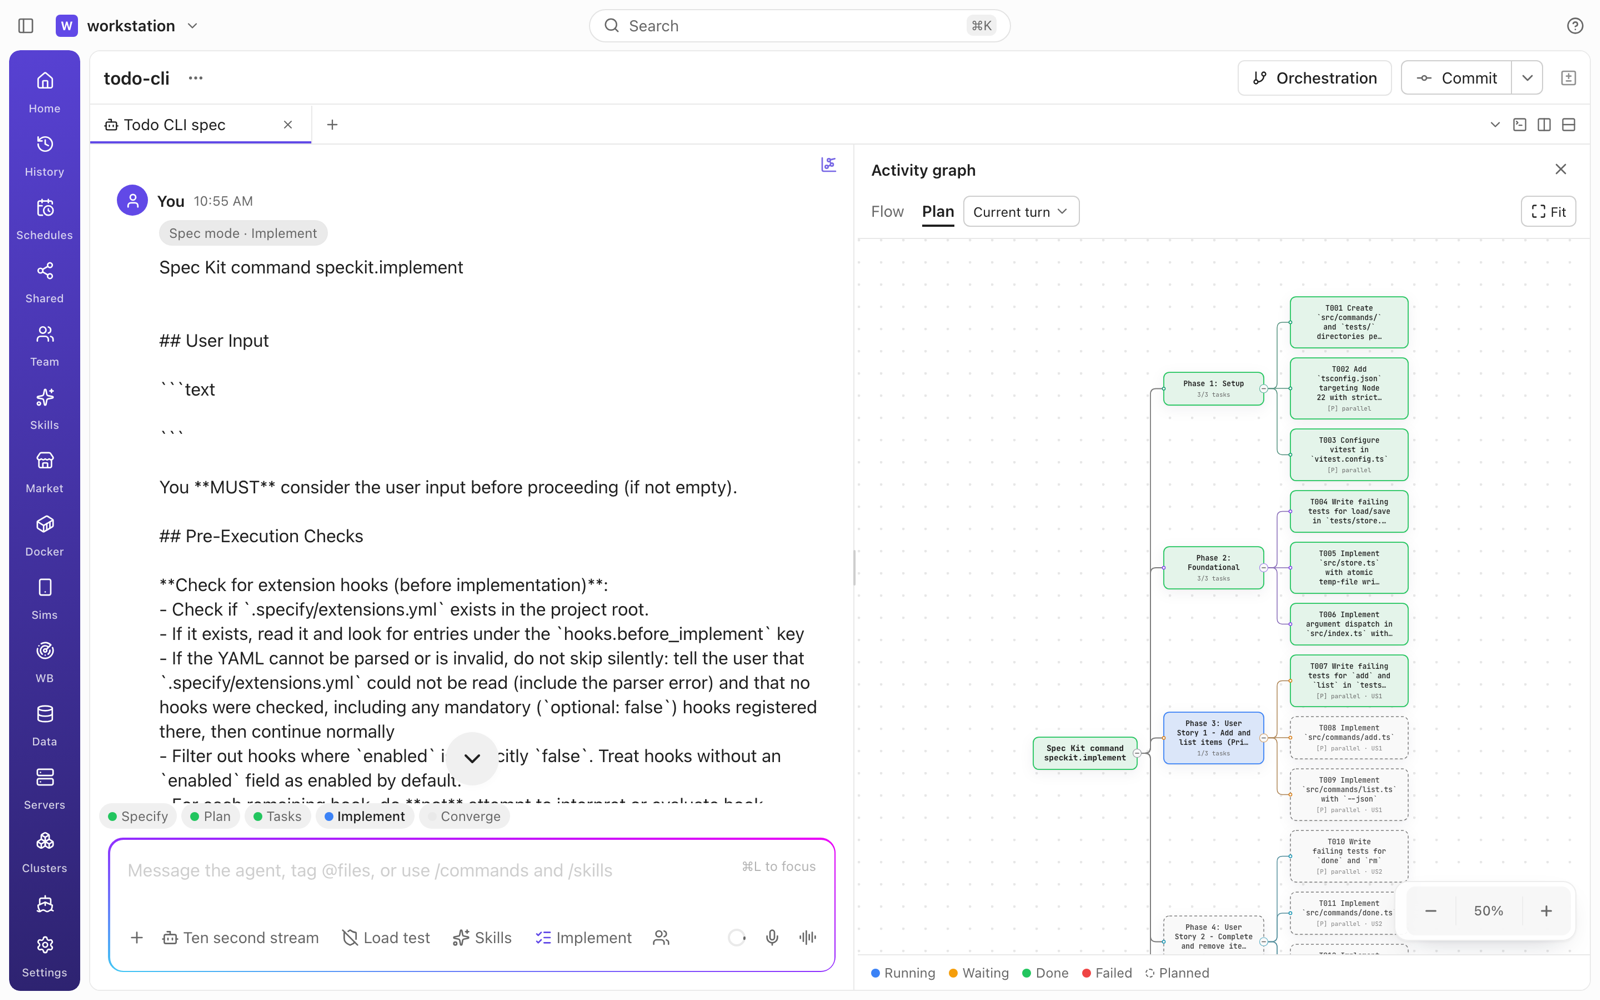
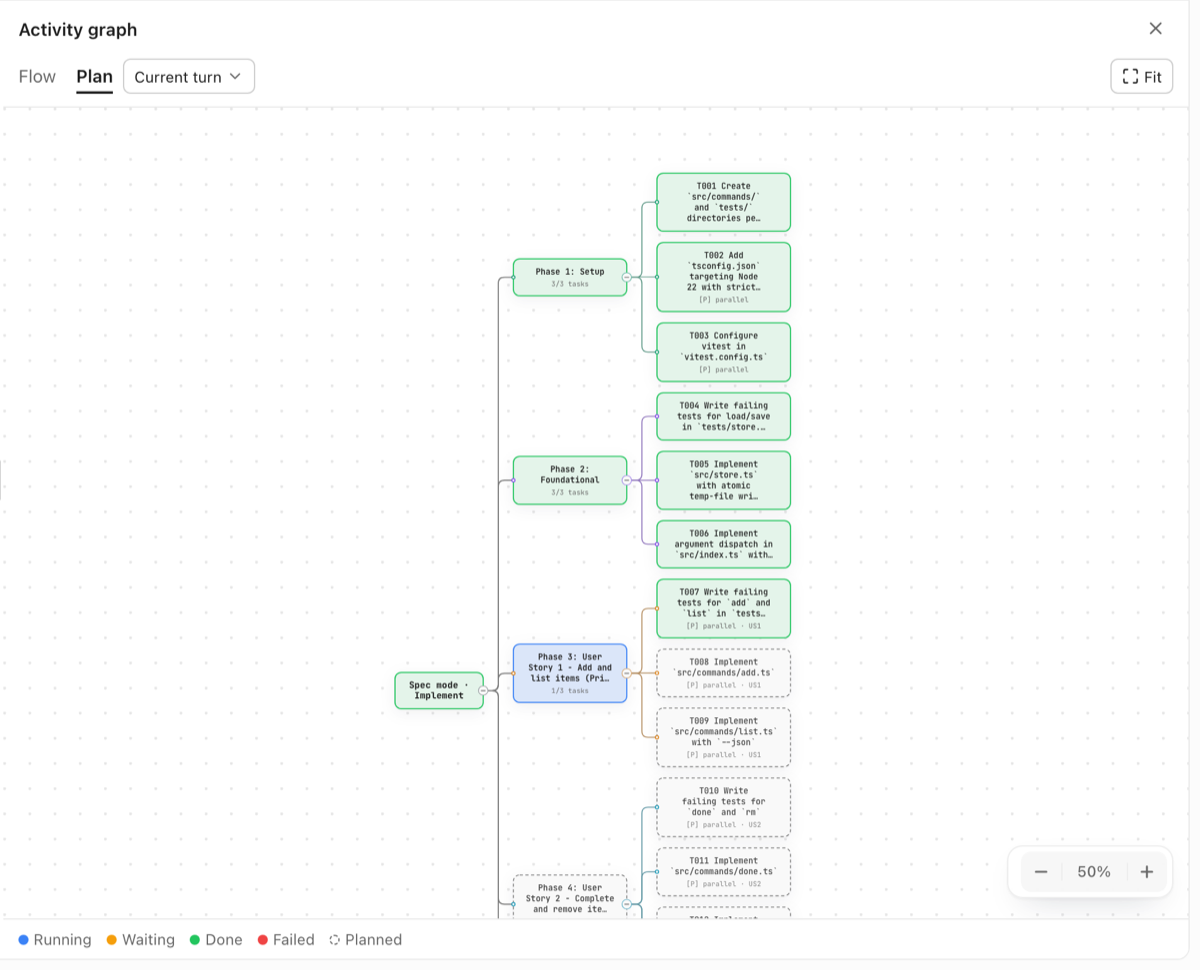
docs(release): v0.9.48 screenshots of cable-only devices, Browse host and the docked Spec mode review

diff --git a/CHANGELOG.md b/CHANGELOG.md
@@ -89,7 +89,7 @@ the release assets.
 
 ### Sideload — sign and install iOS apps with your Apple ID, install Android APKs (Sims → Sideload)
 
-![Sims → Sideload → Install: device guidance, IPA drop zone, Sign & install / Install as-is / Export signed IPA](docs/media/sideload.png)
+![Sims → Sideload → Install with the Browse host dialog: folders and only .ipa files on the daemon machine, with sizes](docs/media/sideload.png)
 
 - **Your Apple ID inside JAgentDesk**, free or paid: email + password in the app, two-factor code (or
   "Send SMS instead") typed in the app and passed to the daemon, never stored. Paid accounts can use an
@@ -121,6 +121,8 @@ the release assets.
 
 ### Real devices in Sims — iPhone, iPad and Android over cable
 
+![Sims → Sideload with no phone attached: "Plug the phone in with its cable and unlock it. iPhone or iPad: tap Trust… Android: allow USB debugging…"](docs/media/devices.png)
+
 - **Physical devices next to simulators.** Plug the phone in with its cable: Android through `adb`
   over USB, iPhone and iPad through go-ios over USB (iOS 17+ through go-ios' userspace tunnel, no
   root). Cable only — there is no wireless pairing, and the daemon never runs `adb pair`,
@@ -147,7 +149,7 @@ the release assets.
 
 ### Spec mode — GitHub Spec Kit in the agent chat
 
-![Spec mode in JAgentDesk: Spec mode on in the composer and the activity graph's Plan view showing tasks.md phases and tasks](docs/media/spec-mode-plan.png)
+![Activity graph Plan view with Spec mode on: Spec mode · Implement, tasks.md phases and tasks, done tasks green, planned ones dashed, [P] parallel marks](docs/media/spec-mode-plan.png)
 
 ![Spec mode phase review: "Tasks is ready for review" with the tasks.md link, Approve & continue and Revise](docs/media/spec-mode-review.png)
 
@@ -159,6 +161,9 @@ the release assets.
   the viewer or diff) with **Approve & continue** and **Revise** (your note goes back with the same
   phase). The daemon only sends the next phase command when you approve — it never starts turns on
   its own.
+- **A clean chat.** Phase messages show only "Spec mode · <phase>" and what you wrote (your request,
+  your Revise note, or "Approved — continue to <phase>"); the spec-kit command itself stays behind a
+  collapsed **Show command**. The phase strip and the review bar sit together on top of the composer.
 - **Set up with your consent.** The first time, the app lists the files it will write (the pinned
   spec-kit 1.3.0 templates and scripts, and the provider's command folder) and writes nothing until
   you press **Set up**; an existing `.specify/` is used as-is. Works with Claude Code, Codex, OpenCode,

diff --git a/README.md b/README.md
@@ -147,7 +147,7 @@ with a few deliberate boundaries:
 
 #### Sideload — your Apple ID, signed and installed by the daemon
 
-![Sims → Sideload → Install: device guidance, IPA drop zone, Sign & install / Install as-is / Export signed IPA](docs/media/sideload.png)
+![Sims → Sideload → Install with the Browse host dialog: folders and only .ipa files on the daemon machine, with sizes](docs/media/sideload.png)
 
 - Sign in with a free or paid Apple ID (2FA in the app) or an App Store Connect API key; the daemon
   signs and installs IPAs over USB or Wi-Fi, with name, icon, bundle ID, minimum iOS, extensions and
@@ -159,6 +159,8 @@ with a few deliberate boundaries:
 
 #### Real iPhones, iPads and Android phones in Sims
 
+![Sims → Sideload with no phone attached: "Plug the phone in with its cable and unlock it. iPhone or iPad: tap Trust… Android: allow USB debugging…"](docs/media/devices.png)
+
 - Phones plugged in with their cable appear next to simulators (unlock, then tap Trust on an iPhone or
   allow USB debugging on Android); **control stays off until you enable it**.
 - Live screen (binary JPEG frames, up to 15 fps), taps, swipes, text and hardware keys, apps, logs and
@@ -167,12 +169,14 @@ with a few deliberate boundaries:
 
 #### Spec mode — GitHub Spec Kit in the chat
 
-![Spec mode with the activity graph Plan view](docs/media/spec-mode-plan.png)
+![Activity graph Plan view with Spec mode on: Spec mode · Implement, tasks.md phases and tasks, done tasks green, planned ones dashed, [P] parallel marks](docs/media/spec-mode-plan.png)
 
 ![Spec mode phase review: "Tasks is ready for review" with the tasks.md link, Approve & continue and Revise](docs/media/spec-mode-review.png)
 
 - A **Spec mode** toggle in the composer runs Constitution → Specify → Plan → Tasks → Implement →
   Converge (Clarify, Checklist and Analyze optional), and **you approve each phase**.
+- The chat shows only the phase and what you wrote — the spec-kit command stays behind **Show
+  command** — and the review bar sits right on top of the composer.
 - Phases are judged from the files on disk, never by a hidden model call; the setup lists every file
   before writing it.
 
